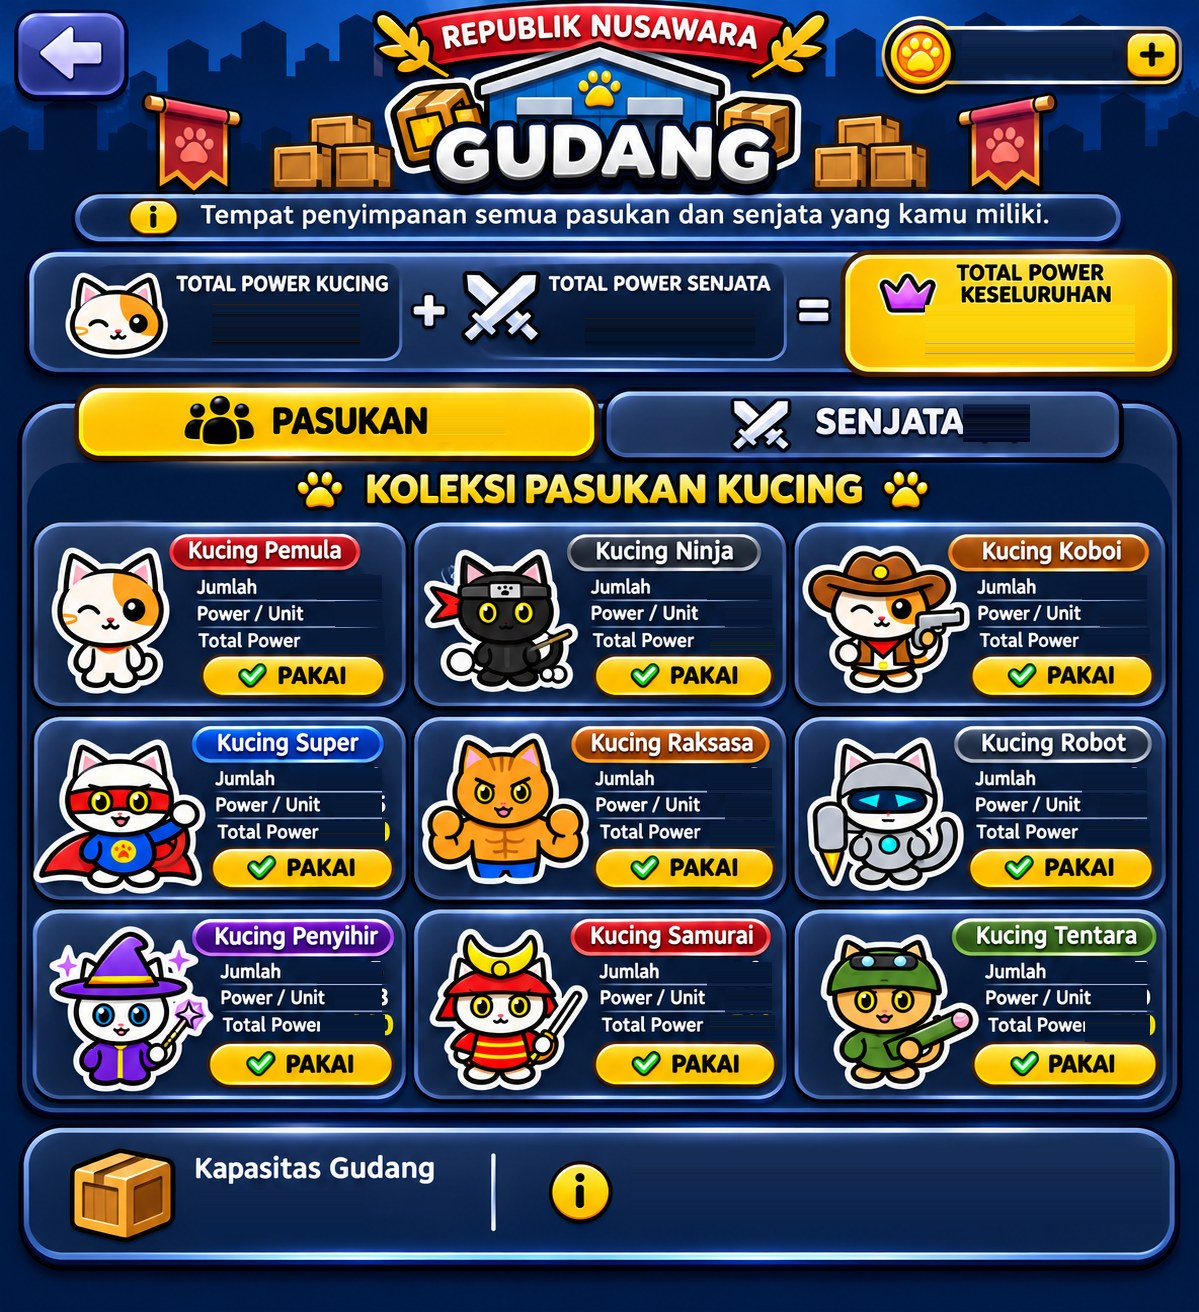
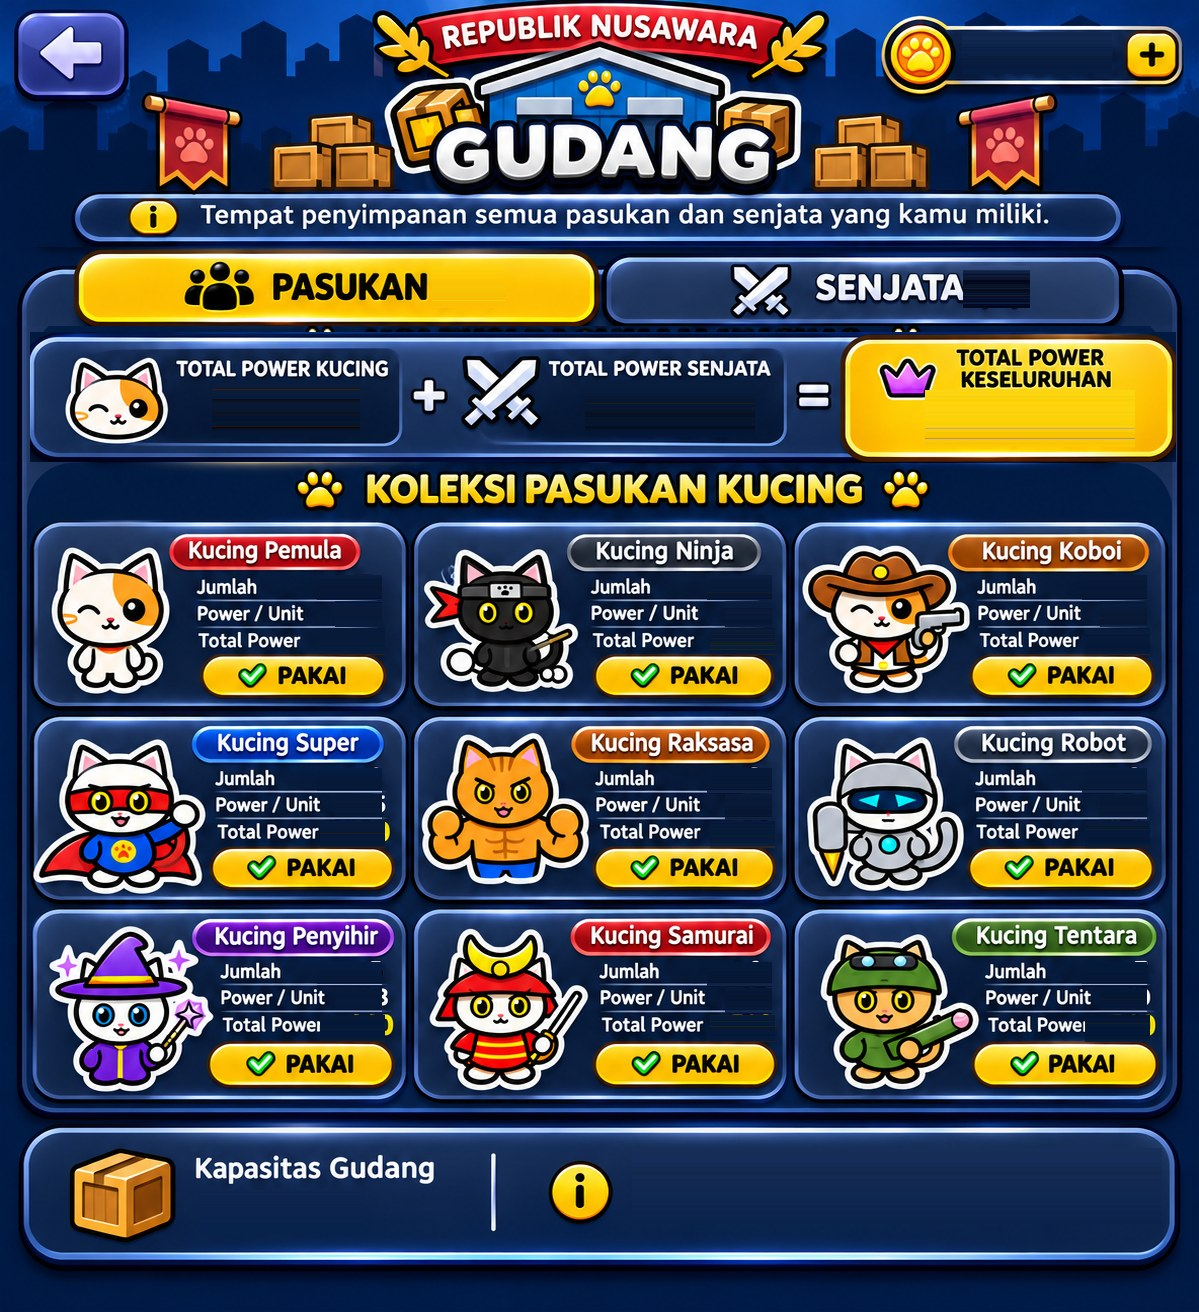
versi 23: gudang pasukan kucing, tab di atas panel power seperti versi anjing
Claude-Session: https://claude.ai/code/session_012X9z3fiAFZ3qgrK3AKFit9

Changed region(s): [[0.0, 0.1875, 0.9875, 0.375]]

diff --git a/index.html b/index.html
@@ -13,7 +13,7 @@ html,body{margin:0;height:100%;background:#0e1124;font-family:system-ui,-apple-s
 </style></head><body>
 <div id="wrap"></div>
 <div id="ttl">PETA PERANG KUCING VS ANJING</div>
-<div id="ver" style="position:fixed;left:8px;top:calc(env(safe-area-inset-top) + 8px);z-index:30;font:600 11px system-ui;color:rgba(255,255,255,.75);background:rgba(0,0,0,.45);padding:2px 8px;border-radius:8px;pointer-events:none">versi 22 · 23 Nov 03:05</div><div id="hint">1 jari: geser peta · 2 jari: cubit zoom & putar</div>
+<div id="ver" style="position:fixed;left:8px;top:calc(env(safe-area-inset-top) + 8px);z-index:30;font:600 11px system-ui;color:rgba(255,255,255,.75);background:rgba(0,0,0,.45);padding:2px 8px;border-radius:8px;pointer-events:none">versi 23 · 23 Nov 03:15</div><div id="hint">1 jari: geser peta · 2 jari: cubit zoom & putar</div>
 <div id="bar">
 <button data-v="depan" class="on">Depan</button><button data-v="jam3">Jam 3</button><button data-v="jam9">Jam 9</button><button data-v="belakang">Belakang</button><button data-v="atas">Atas</button><button id="sorot">Sorot Pasukan</button><button id="auto">Putar otomatis</button><button id="waktu">Waktu: Jam asli</button>
 </div>
@@ -518,7 +518,7 @@ bh.onclick=e=>{e.stopPropagation();open();};addEventListener('resize',()=>{if(d.
 /* REKRUT-END */
 
 /* GUDANG */
-{const GD={"kucing":{"p":{"back":[1.5,0.91,8.92,6.33],"coin":[80.23,2.44,12.51,3.2],"tp":[6.67,29.57,42.95,5.34],"ts":[50.71,29.88,42.54,4.88],"cp":[36.03,30.49,6.09,3.2],"cs":[80.32,30.49,5.59,3.2],"v1":[17.68,22.48,12.34,4.34],"v2":[48.79,22.48,14.18,4.34],"v3":[77.15,23.25,17.51,4.34],"cap":[16.68,90.7,13.76,3.35],"info":[52.71,87.5,44.2,5.79],"up":[31.53,90.55,8.67,3.35],"cards":[{"id":"k_pemula","j":[26.44,43.83,5.42,1.91],"pu":[27.94,45.81,3.92,1.98],"tot":[26.69,47.87,5.42,2.06],"btn":[16.93,49.92,15.01,3.2]},{"id":"k_ninja","j":[58.97,43.83,5.42,1.91],"pu":[60.47,45.81,3.92,1.98],"tot":[59.22,47.87,5.42,2.06],"btn":[49.46,49.92,15.01,3.2]},{"id":"k_koboi","j":[90.24,43.83,5.42,1.91],"pu":[91.74,45.81,3.92,1.98],"tot":[90.49,47.87,5.42,2.06],"btn":[80.73,49.92,15.01,3.2]},{"id":"k_super","j":[26.44,58.54,5.42,1.91],"pu":[27.94,60.52,3.92,1.98],"tot":[26.69,62.58,5.42,2.06],"btn":[16.93,64.63,15.01,3.2]},{"id":"k_raksasa","j":[58.97,58.54,5.42,1.91],"pu":[60.47,60.52,3.92,1.98],"tot":[59.22,62.58,5.42,2.06],"btn":[49.46,64.63,15.01,3.2]},{"id":"k_robot","j":[90.24,58.54,5.42,1.91],"pu":[91.74,60.52,3.92,1.98],"tot":[90.49,62.58,5.42,2.06],"btn":[80.73,64.63,15.01,3.2]},{"id":"k_penyihir","j":[26.44,73.32,5.42,1.91],"pu":[27.94,75.3,3.92,1.98],"tot":[26.69,77.36,5.42,2.06],"btn":[16.93,79.42,15.01,3.2]},{"id":"k_samurai","j":[58.97,73.32,5.42,1.91],"pu":[60.47,75.3,3.92,1.98],"tot":[59.22,77.36,5.42,2.06],"btn":[49.46,79.42,15.01,3.2]},{"id":"k_tentara","j":[90.24,73.32,5.42,1.91],"pu":[91.74,75.3,3.92,1.98],"tot":[90.49,77.36,5.42,2.06],"btn":[80.73,79.42,15.01,3.2]}]},"s":{"back":[1.5,0.91,8.92,6.33],"coin":[80.23,2.44,12.51,3.2],"tp":[8.34,19.97,41.28,4.88],"ts":[50.29,19.97,41.45,5.03],"cp":[37.95,20.73,5.59,3.05],"cs":[80.32,20.73,5.42,3.05],"v1":[16.51,28.81,16.68,4.57],"v2":[46.71,28.81,18.18,4.73],"pk":[88.24,27.44,6.17,2.29],"psj":[88.24,30.64,7.26,2.29],"cap":[15.26,90.85,14.6,3.66],"info":[47.37,88.41,49.54,5.03],"up":[30.03,90.85,8.17,3.66],"cards":[{"id":"k_barbel","j":[31.69,43.45,3.17,2.06],"pu":[31.03,45.5,3.84,1.98],"tot":[30.03,47.56,5.42,2.21],"btn":[36.7,43.98,11.84,4.19]},{"id":"k_bom","j":[79.82,43.45,3.17,2.06],"pu":[79.15,45.5,3.84,1.98],"tot":[78.15,47.56,5.42,2.21],"btn":[84.82,43.98,11.84,4.19]},{"id":"k_pistol","j":[31.69,55.26,3.17,2.06],"pu":[31.03,57.32,3.84,1.98],"tot":[30.03,59.38,5.42,2.21],"btn":[36.7,55.79,11.84,4.19]},{"id":"k_perisai","j":[79.82,55.26,3.17,2.06],"pu":[79.15,57.32,3.84,1.98],"tot":[78.15,59.38,5.42,2.21],"btn":[84.82,55.79,11.84,4.19]},{"id":"k_tongkat","j":[31.69,67.0,3.17,2.06],"pu":[31.03,69.05,3.84,1.98],"tot":[30.03,71.11,5.42,2.21],"btn":[36.7,67.53,11.84,4.19]},{"id":"k_tinju","j":[79.82,67.0,3.17,2.06],"pu":[79.15,69.05,3.84,1.98],"tot":[78.15,71.11,5.42,2.21],"btn":[84.82,67.53,11.84,4.19]},{"id":"k_katana","j":[31.69,78.43,3.17,2.06],"pu":[31.03,80.49,3.84,1.98],"tot":[30.03,82.55,5.42,2.21],"btn":[36.7,78.96,11.84,4.19]},{"id":"k_bazoka","j":[79.82,78.43,3.17,2.06],"pu":[79.15,80.49,3.84,1.98],"tot":[78.15,82.55,5.42,2.21],"btn":[84.82,78.96,11.84,4.19]}]}},"anjing":{"p":{"back":[1.5,0.91,9.34,6.71],"coin":[79.23,2.67,13.51,3.28],"tp":[7.67,23.78,42.2,5.03],"ts":[50.71,23.78,42.04,5.03],"cp":[35.7,24.54,6.67,3.35],"cs":[80.48,24.54,5.59,3.35],"v1":[16.26,32.39,12.93,4.19],"v2":[47.71,32.39,14.85,4.19],"v3":[76.06,33.0,17.18,4.5],"cap":[15.26,89.94,14.93,3.81],"info":[46.71,87.12,50.88,5.87],"up":[30.53,90.09,6.67,3.51],"cards":[{"id":"a_pemula","j":[26.69,45.5,5.42,1.91],"pu":[27.52,47.41,4.59,1.91],"tot":[26.69,49.31,5.67,1.91],"btn":[18.52,51.52,13.59,2.9]},{"id":"a_ninja","j":[58.8,45.5,5.42,1.91],"pu":[59.63,47.41,4.59,1.91],"tot":[58.8,49.31,5.67,1.91],"btn":[50.63,51.52,13.59,2.9]},{"id":"a_koboi","j":[90.33,45.5,6.59,1.91],"pu":[91.16,47.41,5.75,1.91],"tot":[90.33,49.31,6.84,1.91],"btn":[82.15,51.52,13.59,2.9]},{"id":"a_super","j":[26.69,58.92,5.42,1.91],"pu":[27.52,60.82,4.59,1.91],"tot":[26.69,62.73,5.67,1.91],"btn":[18.52,64.94,13.59,2.9]},{"id":"a_raksasa","j":[58.8,58.92,5.42,1.91],"pu":[59.63,60.82,4.59,1.91],"tot":[58.8,62.73,5.67,1.91],"btn":[50.63,64.94,13.59,2.9]},{"id":"a_robot","j":[90.33,58.92,6.59,1.91],"pu":[91.16,60.82,5.75,1.91],"tot":[90.33,62.73,6.84,1.91],"btn":[82.15,64.94,13.59,2.9]},{"id":"a_penyihir","j":[26.69,73.17,5.42,1.91],"pu":[27.52,75.08,4.59,1.91],"tot":[26.69,76.98,5.67,1.91],"btn":[18.52,79.19,13.59,2.9]},{"id":"a_samurai","j":[58.8,73.17,5.42,1.91],"pu":[59.63,75.08,4.59,1.91],"tot":[58.8,76.98,5.67,1.91],"btn":[50.63,79.19,13.59,2.9]},{"id":"a_tentara","j":[90.33,73.17,6.59,1.91],"pu":[91.16,75.08,5.75,1.91],"tot":[90.33,76.98,6.84,1.91],"btn":[82.15,79.19,13.59,2.9]}]},"s":{"back":[1.5,0.91,9.34,6.71],"coin":[78.82,2.67,13.93,3.28],"tp":[7.51,23.25,41.87,5.11],"ts":[50.04,23.25,42.54,5.11],"cp":[37.53,24.01,5.5,3.43],"cs":[80.32,24.01,5.59,3.43],"v1":[15.85,32.01,14.85,4.27],"v2":[46.04,32.01,15.26,4.27],"pk":[88.24,30.64,6.17,2.21],"psj":[88.24,33.69,7.01,2.21],"cap":[15.26,91.84,14.51,3.66],"info":[46.87,89.18,50.29,5.34],"up":[30.03,91.84,6.84,3.66],"cards":[{"id":"a_pentungan","j":[31.28,46.11,3.25,1.91],"pu":[30.44,48.02,4.09,1.91],"tot":[29.36,49.92,5.5,1.98],"btn":[36.95,46.49,11.59,4.27]},{"id":"a_shuriken","j":[79.23,46.11,3.25,1.91],"pu":[78.4,48.02,4.09,1.91],"tot":[77.31,49.92,5.5,1.98],"btn":[84.9,46.49,11.59,4.27]},{"id":"a_cutlass","j":[31.28,56.94,3.25,1.91],"pu":[30.44,58.84,4.09,1.91],"tot":[29.36,60.75,5.5,1.98],"btn":[36.95,57.32,11.59,4.27]},{"id":"a_cakar","j":[79.23,56.94,3.25,1.91],"pu":[78.4,58.84,4.09,1.91],"tot":[77.31,60.75,5.5,1.98],"btn":[84.9,57.32,11.59,4.27]},{"id":"a_tongkat","j":[31.28,67.91,3.25,1.91],"pu":[30.44,69.82,4.09,1.91],"tot":[29.36,71.72,5.5,1.98],"btn":[36.95,68.29,11.59,4.27]},{"id":"a_laser","j":[79.23,67.91,3.25,1.91],"pu":[78.4,69.82,4.09,1.91],"tot":[77.31,71.72,5.5,1.98],"btn":[84.9,68.29,11.59,4.27]},{"id":"a_tommy","j":[31.28,78.96,3.25,1.91],"pu":[30.44,80.87,4.09,1.91],"tot":[29.36,82.77,5.5,1.98],"btn":[36.95,79.34,11.59,4.27]},{"id":"a_meriam","j":[79.23,78.96,3.25,1.91],"pu":[78.4,80.87,4.09,1.91],"tot":[77.31,82.77,5.5,1.98],"btn":[84.9,79.34,11.59,4.27]}]}}},AR=1199/1312;
+{const GD={"kucing":{"p":{"back":[1.5,0.91,8.92,6.33],"coin":[80.23,2.44,12.51,3.2],"tp":[6.67,19.36,42.95,5.34],"ts":[50.71,19.66,42.54,4.88],"cp":[36.03,20.27,6.09,3.2],"cs":[80.32,20.27,5.59,3.2],"v1":[17.68,28.96,12.34,4.34],"v2":[48.79,28.96,14.18,4.34],"v3":[77.15,29.73,17.51,4.34],"cap":[16.68,90.7,13.76,3.35],"info":[52.71,87.5,44.2,5.79],"up":[31.53,90.55,8.67,3.35],"cards":[{"id":"k_pemula","j":[26.44,43.83,5.42,1.91],"pu":[27.94,45.81,3.92,1.98],"tot":[26.69,47.87,5.42,2.06],"btn":[16.93,49.92,15.01,3.2]},{"id":"k_ninja","j":[58.97,43.83,5.42,1.91],"pu":[60.47,45.81,3.92,1.98],"tot":[59.22,47.87,5.42,2.06],"btn":[49.46,49.92,15.01,3.2]},{"id":"k_koboi","j":[90.24,43.83,5.42,1.91],"pu":[91.74,45.81,3.92,1.98],"tot":[90.49,47.87,5.42,2.06],"btn":[80.73,49.92,15.01,3.2]},{"id":"k_super","j":[26.44,58.54,5.42,1.91],"pu":[27.94,60.52,3.92,1.98],"tot":[26.69,62.58,5.42,2.06],"btn":[16.93,64.63,15.01,3.2]},{"id":"k_raksasa","j":[58.97,58.54,5.42,1.91],"pu":[60.47,60.52,3.92,1.98],"tot":[59.22,62.58,5.42,2.06],"btn":[49.46,64.63,15.01,3.2]},{"id":"k_robot","j":[90.24,58.54,5.42,1.91],"pu":[91.74,60.52,3.92,1.98],"tot":[90.49,62.58,5.42,2.06],"btn":[80.73,64.63,15.01,3.2]},{"id":"k_penyihir","j":[26.44,73.32,5.42,1.91],"pu":[27.94,75.3,3.92,1.98],"tot":[26.69,77.36,5.42,2.06],"btn":[16.93,79.42,15.01,3.2]},{"id":"k_samurai","j":[58.97,73.32,5.42,1.91],"pu":[60.47,75.3,3.92,1.98],"tot":[59.22,77.36,5.42,2.06],"btn":[49.46,79.42,15.01,3.2]},{"id":"k_tentara","j":[90.24,73.32,5.42,1.91],"pu":[91.74,75.3,3.92,1.98],"tot":[90.49,77.36,5.42,2.06],"btn":[80.73,79.42,15.01,3.2]}]},"s":{"back":[1.5,0.91,8.92,6.33],"coin":[80.23,2.44,12.51,3.2],"tp":[8.34,19.97,41.28,4.88],"ts":[50.29,19.97,41.45,5.03],"cp":[37.95,20.73,5.59,3.05],"cs":[80.32,20.73,5.42,3.05],"v1":[16.51,28.81,16.68,4.57],"v2":[46.71,28.81,18.18,4.73],"pk":[88.24,27.44,6.17,2.29],"psj":[88.24,30.64,7.26,2.29],"cap":[15.26,90.85,14.6,3.66],"info":[47.37,88.41,49.54,5.03],"up":[30.03,90.85,8.17,3.66],"cards":[{"id":"k_barbel","j":[31.69,43.45,3.17,2.06],"pu":[31.03,45.5,3.84,1.98],"tot":[30.03,47.56,5.42,2.21],"btn":[36.7,43.98,11.84,4.19]},{"id":"k_bom","j":[79.82,43.45,3.17,2.06],"pu":[79.15,45.5,3.84,1.98],"tot":[78.15,47.56,5.42,2.21],"btn":[84.82,43.98,11.84,4.19]},{"id":"k_pistol","j":[31.69,55.26,3.17,2.06],"pu":[31.03,57.32,3.84,1.98],"tot":[30.03,59.38,5.42,2.21],"btn":[36.7,55.79,11.84,4.19]},{"id":"k_perisai","j":[79.82,55.26,3.17,2.06],"pu":[79.15,57.32,3.84,1.98],"tot":[78.15,59.38,5.42,2.21],"btn":[84.82,55.79,11.84,4.19]},{"id":"k_tongkat","j":[31.69,67.0,3.17,2.06],"pu":[31.03,69.05,3.84,1.98],"tot":[30.03,71.11,5.42,2.21],"btn":[36.7,67.53,11.84,4.19]},{"id":"k_tinju","j":[79.82,67.0,3.17,2.06],"pu":[79.15,69.05,3.84,1.98],"tot":[78.15,71.11,5.42,2.21],"btn":[84.82,67.53,11.84,4.19]},{"id":"k_katana","j":[31.69,78.43,3.17,2.06],"pu":[31.03,80.49,3.84,1.98],"tot":[30.03,82.55,5.42,2.21],"btn":[36.7,78.96,11.84,4.19]},{"id":"k_bazoka","j":[79.82,78.43,3.17,2.06],"pu":[79.15,80.49,3.84,1.98],"tot":[78.15,82.55,5.42,2.21],"btn":[84.82,78.96,11.84,4.19]}]}},"anjing":{"p":{"back":[1.5,0.91,9.34,6.71],"coin":[79.23,2.67,13.51,3.28],"tp":[7.67,23.78,42.2,5.03],"ts":[50.71,23.78,42.04,5.03],"cp":[35.7,24.54,6.67,3.35],"cs":[80.48,24.54,5.59,3.35],"v1":[16.26,32.39,12.93,4.19],"v2":[47.71,32.39,14.85,4.19],"v3":[76.06,33.0,17.18,4.5],"cap":[15.26,89.94,14.93,3.81],"info":[46.71,87.12,50.88,5.87],"up":[30.53,90.09,6.67,3.51],"cards":[{"id":"a_pemula","j":[26.69,45.5,5.42,1.91],"pu":[27.52,47.41,4.59,1.91],"tot":[26.69,49.31,5.67,1.91],"btn":[18.52,51.52,13.59,2.9]},{"id":"a_ninja","j":[58.8,45.5,5.42,1.91],"pu":[59.63,47.41,4.59,1.91],"tot":[58.8,49.31,5.67,1.91],"btn":[50.63,51.52,13.59,2.9]},{"id":"a_koboi","j":[90.33,45.5,6.59,1.91],"pu":[91.16,47.41,5.75,1.91],"tot":[90.33,49.31,6.84,1.91],"btn":[82.15,51.52,13.59,2.9]},{"id":"a_super","j":[26.69,58.92,5.42,1.91],"pu":[27.52,60.82,4.59,1.91],"tot":[26.69,62.73,5.67,1.91],"btn":[18.52,64.94,13.59,2.9]},{"id":"a_raksasa","j":[58.8,58.92,5.42,1.91],"pu":[59.63,60.82,4.59,1.91],"tot":[58.8,62.73,5.67,1.91],"btn":[50.63,64.94,13.59,2.9]},{"id":"a_robot","j":[90.33,58.92,6.59,1.91],"pu":[91.16,60.82,5.75,1.91],"tot":[90.33,62.73,6.84,1.91],"btn":[82.15,64.94,13.59,2.9]},{"id":"a_penyihir","j":[26.69,73.17,5.42,1.91],"pu":[27.52,75.08,4.59,1.91],"tot":[26.69,76.98,5.67,1.91],"btn":[18.52,79.19,13.59,2.9]},{"id":"a_samurai","j":[58.8,73.17,5.42,1.91],"pu":[59.63,75.08,4.59,1.91],"tot":[58.8,76.98,5.67,1.91],"btn":[50.63,79.19,13.59,2.9]},{"id":"a_tentara","j":[90.33,73.17,6.59,1.91],"pu":[91.16,75.08,5.75,1.91],"tot":[90.33,76.98,6.84,1.91],"btn":[82.15,79.19,13.59,2.9]}]},"s":{"back":[1.5,0.91,9.34,6.71],"coin":[78.82,2.67,13.93,3.28],"tp":[7.51,23.25,41.87,5.11],"ts":[50.04,23.25,42.54,5.11],"cp":[37.53,24.01,5.5,3.43],"cs":[80.32,24.01,5.59,3.43],"v1":[15.85,32.01,14.85,4.27],"v2":[46.04,32.01,15.26,4.27],"pk":[88.24,30.64,6.17,2.21],"psj":[88.24,33.69,7.01,2.21],"cap":[15.26,91.84,14.51,3.66],"info":[46.87,89.18,50.29,5.34],"up":[30.03,91.84,6.84,3.66],"cards":[{"id":"a_pentungan","j":[31.28,46.11,3.25,1.91],"pu":[30.44,48.02,4.09,1.91],"tot":[29.36,49.92,5.5,1.98],"btn":[36.95,46.49,11.59,4.27]},{"id":"a_shuriken","j":[79.23,46.11,3.25,1.91],"pu":[78.4,48.02,4.09,1.91],"tot":[77.31,49.92,5.5,1.98],"btn":[84.9,46.49,11.59,4.27]},{"id":"a_cutlass","j":[31.28,56.94,3.25,1.91],"pu":[30.44,58.84,4.09,1.91],"tot":[29.36,60.75,5.5,1.98],"btn":[36.95,57.32,11.59,4.27]},{"id":"a_cakar","j":[79.23,56.94,3.25,1.91],"pu":[78.4,58.84,4.09,1.91],"tot":[77.31,60.75,5.5,1.98],"btn":[84.9,57.32,11.59,4.27]},{"id":"a_tongkat","j":[31.28,67.91,3.25,1.91],"pu":[30.44,69.82,4.09,1.91],"tot":[29.36,71.72,5.5,1.98],"btn":[36.95,68.29,11.59,4.27]},{"id":"a_laser","j":[79.23,67.91,3.25,1.91],"pu":[78.4,69.82,4.09,1.91],"tot":[77.31,71.72,5.5,1.98],"btn":[84.9,68.29,11.59,4.27]},{"id":"a_tommy","j":[31.28,78.96,3.25,1.91],"pu":[30.44,80.87,4.09,1.91],"tot":[29.36,82.77,5.5,1.98],"btn":[36.95,79.34,11.59,4.27]},{"id":"a_meriam","j":[79.23,78.96,3.25,1.91],"pu":[78.4,80.87,4.09,1.91],"tot":[77.31,82.77,5.5,1.98],"btn":[84.9,79.34,11.59,4.27]}]}}},AR=1199/1312;
 const IT={k_pemula:20,k_ninja:75,k_koboi:65,k_super:95,k_raksasa:98,k_robot:90,k_penyihir:88,k_samurai:85,k_tentara:80,k_barbel:15,k_bom:20,k_pistol:25,k_perisai:30,k_tongkat:35,k_tinju:40,k_katana:45,k_bazoka:50,a_pemula:25,a_ninja:75,a_koboi:65,a_samurai:85,a_super:95,a_tentara:80,a_raksasa:98,a_robot:90,a_penyihir:88,a_pentungan:15,a_shuriken:20,a_cutlass:25,a_cakar:30,a_tongkat:35,a_laser:40,a_tommy:45,a_meriam:50};
 const st=document.createElement('style');st.textContent='#bcgd,#bcgd2{position:absolute;cursor:pointer;z-index:4}#bcgd{left:.9%;top:60.8%;width:12.6%;height:7.2%}#bcgd2{left:60%;top:35%;width:13.8%;height:18%}@media (orientation:portrait){#bcgd{left:1.4%;top:32.9%;width:17.2%;height:3.6%}#bcgd2{left:78%;top:43%;width:22%;height:15%}}#gd{font-family:system-ui,-apple-system,"Segoe UI",Roboto,sans-serif;position:fixed;inset:0;background:rgba(8,12,28,.6);-webkit-backdrop-filter:blur(6px);backdrop-filter:blur(6px);z-index:62;display:none;align-items:center;justify-content:center}#gd.on{display:flex}#gdb{position:relative;flex:none;border-radius:18px;overflow:hidden;box-shadow:0 14px 40px rgba(0,0,0,.7);container-type:inline-size}#gdb>img{width:100%;height:100%;display:block}#gdb .h{position:absolute;cursor:pointer;border-radius:999px}#gdb .v{position:absolute;display:flex;align-items:center;color:#fff;font-weight:800;text-shadow:0 1px 2px #000;white-space:nowrap;pointer-events:none}#gdb .r{justify-content:flex-end}#gdb .c{justify-content:center}#gdb .y{color:#ffd23f}#gdb .big{color:#ffd23f;font-weight:900;-webkit-text-stroke:.15cqw #5a3300;text-shadow:0 .3cqw 0 #7a4a00}#gdb .blk{color:#1a1200;text-shadow:none;font-weight:900}#gdb .dim{position:absolute;background:rgba(10,14,30,.55);pointer-events:none;border-radius:2cqw}#gdb .on2{position:absolute;display:flex;align-items:center;justify-content:center;background:linear-gradient(#5fe08a,#1f9e4c);border:.4cqw solid #e8ffe8;border-radius:999px;color:#fff;font-weight:900;text-shadow:0 1px 2px #064;cursor:pointer;box-sizing:border-box}#gdb .upb{position:absolute;display:flex;align-items:center;justify-content:center;background:linear-gradient(#ffe27a,#f2b31d);border:.3cqw solid #fff3b0;border-radius:1.6cqw;color:#3a2200;font-weight:900;cursor:pointer;box-sizing:border-box;line-height:1.05;text-align:center}#gdw{display:flex;flex-direction:column;align-items:center;gap:8px}#gdu{width:100%;box-sizing:border-box;padding:8px 12px;border-radius:16px;background:linear-gradient(#ffe27a,#f2b31d);border:3px solid #fff3b0;box-shadow:0 4px 0 #a86c08,0 8px 18px rgba(0,0,0,.5);color:#3a2200;text-align:center;cursor:pointer;display:flex;flex-direction:column;line-height:1.2}#gdu b{font-size:17px;font-weight:900}#gdu small{font-size:13px;font-weight:700}#gdu:active{transform:translateY(2px)}#gdinfo{position:absolute;color:#fff;font-weight:700;font-size:2cqw;line-height:1.3;display:flex;align-items:center;pointer-events:none}';document.head.appendChild(st);
 const bb=document.getElementById('bcb');['bcgd','bcgd2'].forEach(i=>{const e=document.createElement('div');e.id=i;bb.appendChild(e);e.onclick=ev=>{ev.stopPropagation();open();};});
@@ -528,7 +528,7 @@ const P=(e,[l,t,w,h])=>Object.assign(e.style,{left:l+'%',top:t+'%',width:w+'%',h
 const f=n=>Number(n||0).toLocaleString('id-ID');
 const tok=()=>{try{return localStorage.getItem('kva_token')}catch(_){return null}};
 async function call(fn,a){const t=tok();if(!t){kvaToast('Masuk dulu');return;}if(busy)return;busy=true;try{const j=await window.kvaRpc(fn,Object.assign({p_token:t},a));window.KVA_S=j;window.KVA_B=j.bangunan||window.KVA_B;render();return j;}catch(e){kvaToast(e.message);}finally{busy=false;}}
-function render(){const C=GD[kb][tab],S=window.KVA_S||{},inv=S.inventaris||[];document.getElementById('gdi').src='gd_'+kb+'_'+tab+'.jpg?v=22';H.innerHTML='';
+function render(){const C=GD[kb][tab],S=window.KVA_S||{},inv=S.inventaris||[];document.getElementById('gdi').src='gd_'+kb+'_'+tab+'.jpg?v=23';H.innerHTML='';
  const cnt={},on={};inv.forEach(x=>{cnt[x.item]=(cnt[x.item]||0)+1;if(x.dipakai)on[x.item]=1;});
  const nP=inv.filter(x=>x.jenis==='pasukan').length,nS=inv.length-nP,pp=+S.power_pasukan||0,ps=+S.power_senjata||0;
  const tx=(r,t,cls,fs)=>{const e=document.createElement('div');e.className='v '+(cls||'');P(e,r);e.style.fontSize=fs+'cqw';e.textContent=t;H.appendChild(e);return e;};
